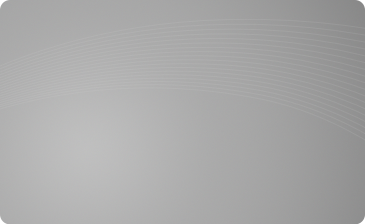
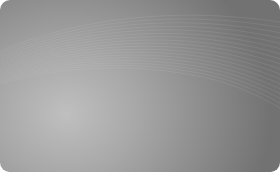
Imagem do cartão melhorada e dimensões do ícone do CVV

diff --git a/css/form.css b/css/form.css
@@ -104,9 +104,9 @@
 .form-cvv-vetor {
   bottom: 1px;
   fill: var(--cinza);
-  height: 15px;
+  height: 14px;
   position: relative;
-  width: 15px;
+  width: 14px;
 }
 
 .form-campo:focus + .form-rotulo,
